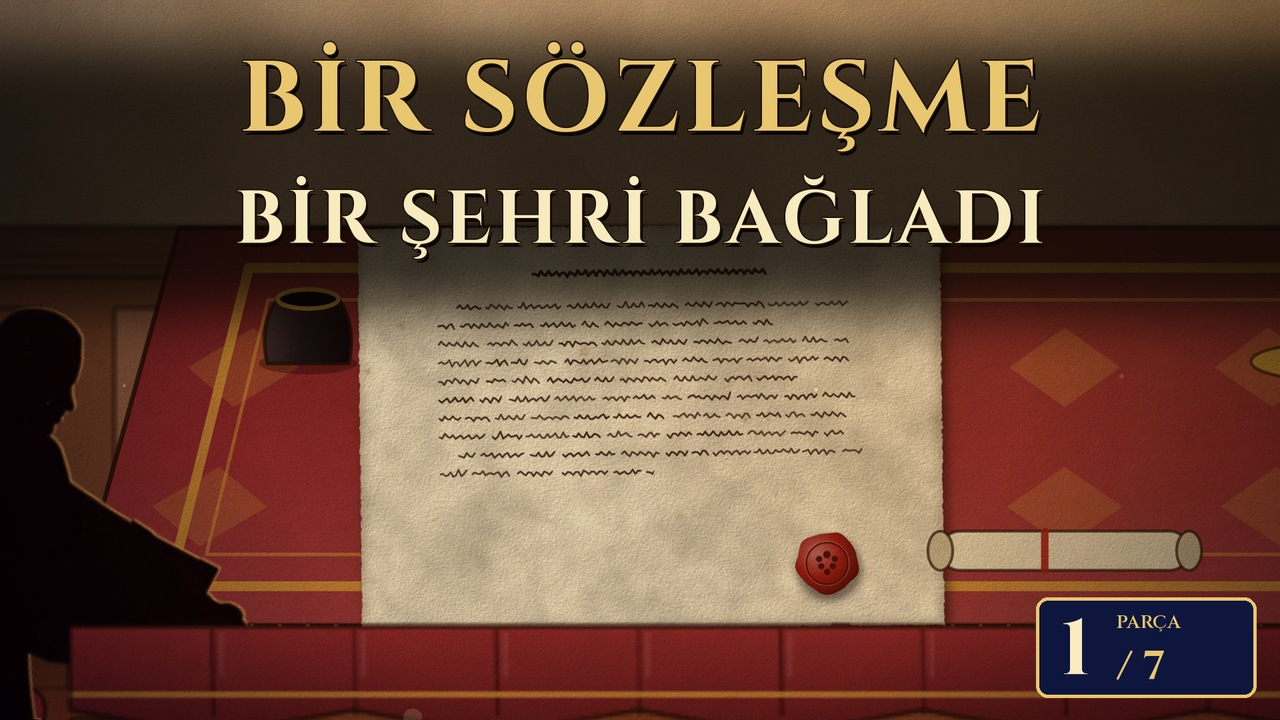
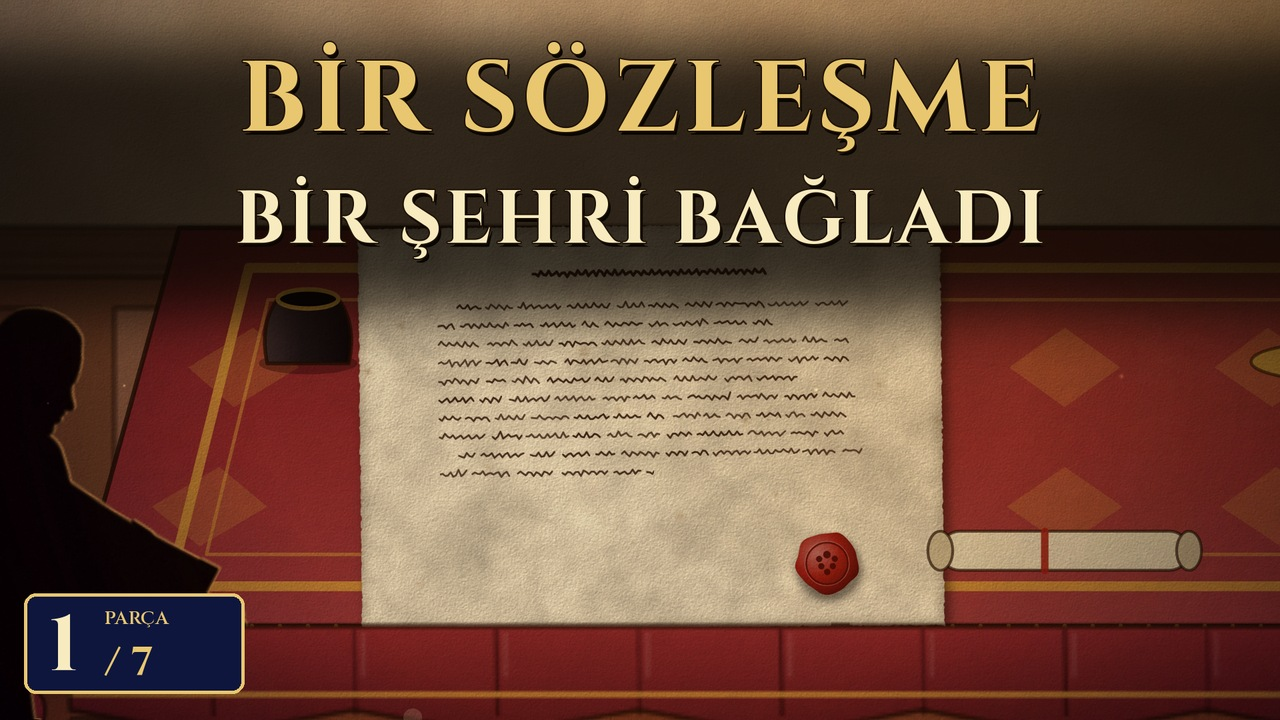
Medici Parça 1: kapak aracı (rozet sol altta), kurul kanıt aracı, yayın paketi taslağı
Claude-Session: https://claude.ai/code/session_01MycV7YUZ8LkGP2ZFn1qUsS

Changed region(s): [[0.0, 0.825, 0.2188, 0.9778], [0.8125, 0.825, 1.0, 0.9778]]

diff --git a/gunluk-shorts/medici-uzun-dosya/kurul_kanit.py b/gunluk-shorts/medici-uzun-dosya/kurul_kanit.py
@@ -1,0 +1,137 @@
+#!/usr/bin/env python3
+"""Kurul kanıt paketi: bitmiş bir Medici parçasının mp4'ünden kurul üyelerine verilecek GÖRSEL + SAYISAL kanıtı üretir (kurullar sesi dinleyemez, videoyu oynatamaz).
+
+  python3 kurul_kanit.py --part 1 [--src out_p1/medici_P1.mp4] [--out out_p1/kurul]
+
+Üretir (--out altında):
+  genel_NN.png        : her ≈9 sn'de bir kare, 4×4 kontak sayfaları (1920×1080; tam süre taranır)
+  gecis_<ad>.png      : seçili geçişlerin çevresinde 0,125 sn adımlı 8 karelik şerit (akış/hareket kanıtı)
+  tam_<ad>.png        : tam çözünürlüklü 12 kritik kare (okunurluk, çizgi kalitesi, yazı)
+  hareket.json        : 0,5 sn adımlı ardışık kare farkı (gri 240×135) → durgunluk/ritim eğrisi + özet
+  teknik.json         : ffprobe + kare hızı + bit hızı + (varsa) ses raporu özeti
+"""
+import argparse
+import json
+import os
+import subprocess
+import sys
+
+import cv2
+import numpy as np
+
+HERE = os.path.dirname(os.path.abspath(__file__))
+os.chdir(HERE)
+
+
+def read_frame(cap, t, fps):
+    cap.set(cv2.CAP_PROP_POS_FRAMES, int(round(t * fps)))
+    ok, f = cap.read()
+    return f if ok else None
+
+
+def label(img, text):
+    cv2.rectangle(img, (0, 0), (img.shape[1], 22), (0, 0, 0), -1)
+    cv2.putText(img, text, (6, 16), cv2.FONT_HERSHEY_SIMPLEX, 0.5, (240, 215, 140), 1, cv2.LINE_AA)
+    return img
+
+
+def sheet(imgs, cols, tile_w):
+    tiles = []
+    for im in imgs:
+        h = int(im.shape[0] * tile_w / im.shape[1])
+        tiles.append(cv2.resize(im, (tile_w, h), interpolation=cv2.INTER_AREA))
+    th = tiles[0].shape[0]
+    rows = []
+    for i in range(0, len(tiles), cols):
+        row = tiles[i:i + cols]
+        while len(row) < cols:
+            row.append(np.zeros_like(tiles[0]))
+        rows.append(np.concatenate(row, axis=1))
+    return np.concatenate(rows, axis=0)
+
+
+def main():
+    ap = argparse.ArgumentParser()
+    ap.add_argument("--part", type=int, default=1)
+    ap.add_argument("--src", default=None)
+    ap.add_argument("--out", default=None)
+    ap.add_argument("--gecisler", default="", help="virgüllü 'ad:sn' (örn. oda_belge:44.2,iris:107.4)")
+    a = ap.parse_args()
+    src = a.src or f"out_p{a.part}/medici_P{a.part}.mp4"
+    out = a.out or f"out_p{a.part}/kurul"
+    os.makedirs(out, exist_ok=True)
+    cap = cv2.VideoCapture(src)
+    fps = cap.get(cv2.CAP_PROP_FPS)
+    n = int(cap.get(cv2.CAP_PROP_FRAME_COUNT))
+    dur = n / fps
+    print(f"{src}: {dur:.1f} sn, {fps:.2f} fps, {n} kare")
+
+    # 1) genel kontak sayfaları
+    step = dur / 64.0
+    ts = [min(dur - 0.1, 1.0 + i * step) for i in range(64)]
+    for k in range(4):
+        imgs = []
+        for t in ts[k * 16:(k + 1) * 16]:
+            f = read_frame(cap, t, fps)
+            if f is None:
+                f = np.zeros((1080, 1920, 3), np.uint8)
+            imgs.append(label(f.copy(), f"{int(t // 60)}:{t % 60:04.1f}"))
+        cv2.imwrite(f"{out}/genel_{k + 1:02d}.png", sheet(imgs, 4, 480))
+
+    # 2) geçiş şeritleri
+    gec = [x.split(":") for x in a.gecisler.split(",") if x]
+    for name, t0 in gec:
+        t0 = float(t0)
+        imgs = []
+        for i in range(8):
+            t = max(0, t0 - 0.5 + i * 0.125)
+            f = read_frame(cap, t, fps)
+            if f is not None:
+                imgs.append(label(f.copy(), f"{name} {t:.2f}s"))
+        if imgs:
+            cv2.imwrite(f"{out}/gecis_{name}.png", sheet(imgs, 4, 480))
+
+    # 3) tam çözünürlüklü kritik kareler: 12 eşit aralıklı + başlık kartı
+    for i, t in enumerate(np.linspace(8, dur - 12, 12)):
+        f = read_frame(cap, float(t), fps)
+        if f is not None:
+            cv2.imwrite(f"{out}/tam_{i + 1:02d}_{int(t)}s.png", f)
+
+    # 4) hareket eğrisi (0,5 sn adımlı kare farkı)
+    prev = None
+    diffs = []
+    t = 0.0
+    while t < dur - 0.2:
+        f = read_frame(cap, t, fps)
+        if f is None:
+            break
+        g = cv2.cvtColor(cv2.resize(f, (240, 135), interpolation=cv2.INTER_AREA), cv2.COLOR_BGR2GRAY).astype(np.float32)
+        if prev is not None:
+            diffs.append(float(np.mean(np.abs(g - prev))))
+        prev = g
+        t += 0.5
+    d = np.array(diffs)
+    still = 0
+    run = 0
+    maxrun = 0
+    for v in d:
+        if v < 0.35:
+            run += 1
+            maxrun = max(maxrun, run)
+        else:
+            run = 0
+    summ = dict(adim_sn=0.5, n=len(d), ort=float(d.mean()), medyan=float(np.median(d)), p10=float(np.percentile(d, 10)), p90=float(np.percentile(d, 90)),
+                durgun_oran_esik_0_35=float((d < 0.35).mean()), en_uzun_durgun_koşu_sn=maxrun * 0.5)
+    json.dump(dict(ozet=summ, egri=[round(x, 3) for x in diffs]), open(f"{out}/hareket.json", "w"), indent=1)
+    print("hareket:", summ)
+
+    # 5) teknik
+    pr = subprocess.run(["ffprobe", "-v", "error", "-show_entries", "stream=codec_type,codec_name,width,height,r_frame_rate,bit_rate,pix_fmt,color_space,color_primaries,color_transfer,sample_rate,channels:format=duration,size,bit_rate", "-of", "json", src],
+                        capture_output=True, text=True)
+    tek = json.loads(pr.stdout)
+    json.dump(tek, open(f"{out}/teknik.json", "w"), indent=1)
+    print(json.dumps(tek)[:600])
+
+
+if __name__ == "__main__":
+    main()

diff --git a/gunluk-shorts/medici-uzun-dosya/kapak_medici.py b/gunluk-shorts/medici-uzun-dosya/kapak_medici.py
@@ -73,12 +73,12 @@ def shade(im, box, alpha=0.62, blur=40):
 
 
 def part_badge(im, part, n=7):
-    """Parça numarası: sağ altta, her kapakta aynı yerde ve büyük."""
+    """Parça numarası: SOL ALTTA, her kapakta aynı yerde ve büyük (sağ alt = YouTube süre rozeti bölgesi, kapak kurulunun kuralı: yazı konmaz)."""
     w, h = im.size
     d = ImageDraw.Draw(im)
     bw, bh = 330, 150
-    x1, y1 = w - 36, h - 34
-    x0, y0 = x1 - bw, y1 - bh
+    x0, y1 = 36, h - 40
+    x1, y0 = x0 + bw, y1 - bh
     d.rounded_rectangle((x0, y0, x1, y1), 18, fill=(14, 22, 62), outline=GOLD, width=5)
     f = font("Cinzel_700Bold.ttf", 118)
     d.text((x0 + 36, (y0 + y1) / 2 + 4), str(part), font=f, fill=CREAM, anchor="lm")
